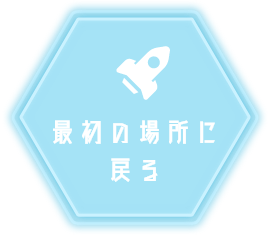
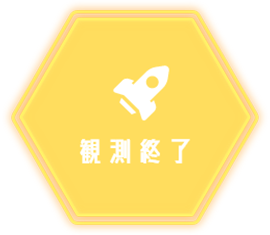
ver 0.8.4

diff --git a/src/js/ConstellationDetails.js b/src/js/ConstellationDetails.js
@@ -63,15 +63,29 @@ export default class ConstellationDetails {
 
     addBackButton(){
         let self = this;
-        this.backButton = new PIXI.Sprite(this.app.loader.resources['button_01'].texture);
-        this.backButton.interactive = true;
-        this.backButton.buttonMode = true;
-        this.backButton.position.set(25 , 25);
+        let poly = new PIXI.Polygon(
+            new PIXI.Point(-70 , -115),
+            new PIXI.Point(-130 , 0),
+            new PIXI.Point(-70 , 115),
+            new PIXI.Point(70 , 115),
+            new PIXI.Point(130 , 0),
+            new PIXI.Point(70 , -115)
+        );
 
-        this.backButton.on('pointerdown', function(){
-            self.onBackButton()
+        this.buttonBack = new PIXI.Sprite(this.app.loader.resources['button_back_off'].texture);
+        this.buttonBack.anchor.set(0.5);
+        this.buttonBack.position.set(200 , document.documentElement.clientHeight - 200);
+        this.buttonBack.hitArea = poly;
+        this.buttonBack.interactive = true;
+        this.buttonBack.buttonMode = true;
+        this.buttonBack.on('pointerover', function(){
+            this.texture = self.app.loader.resources['button_back_on'].texture
+        }).on('pointerout', function(){
+            this.texture = self.app.loader.resources['button_back_off'].texture
+        }).on('pointerdown', function(){
+            self.onBackButton();
         });
-        this.messageBox.addChild(this.backButton);
+        this.messageBox.addChild(this.buttonBack);
     }
 
     addInfoButton(){
@@ -109,9 +123,10 @@ export default class ConstellationDetails {
         this.flameBottom.y = document.documentElement.clientHeight;
         this.line_horizontal = new PIXI.Graphics().lineStyle(1, 0xFFFFFF, 0.5).moveTo(0 , document.documentElement.clientHeight / 2).lineTo(document.documentElement.clientWidth , document.documentElement.clientHeight / 2);
         this.line_vertical = new PIXI.Graphics().lineStyle(1, 0xFFFFFF, 0.5).moveTo(document.documentElement.clientWidth / 2 , 0).lineTo(document.documentElement.clientWidth / 2 , document.documentElement.clientHeight);
-
+        this.title = new PIXI.Sprite(this.app.loader.resources['title_constellation'].texture);
+        this.title.scale.set(0.8);
         this.buttonLeft = new PIXI.Sprite(this.app.loader.resources['flame_bottom'].texture);
-        this.flameBox.addChild(this.line_horizontal ,this.line_vertical , this.flameLeft , this.flameRight , this.flameBottom );
+        this.flameBox.addChild(this.line_horizontal ,this.line_vertical , this.flameLeft , this.flameRight , this.flameBottom , this.title);
     }
 
     createConstellationBackground(){
@@ -276,7 +291,7 @@ export default class ConstellationDetails {
     showInfo(){
         this.infoState = !this.infoState;
         this.infoButton.visible = false;
-        this.backButton.visible = false;
+        this.buttonBack.visible = false;
         this.constellationTextBox.visible = true;
         this.constellationText.visible = true;
         this.closeButton.visible = true;
@@ -287,7 +302,7 @@ export default class ConstellationDetails {
     hideInfo(){
         this.infoState = !this.infoState;
         this.infoButton.visible = true;
-        this.backButton.visible = true;
+        this.buttonBack.visible = true;
         this.constellationTextBox.visible = false;
         this.constellationText.visible = false;
         this.closeButton.visible = false;
@@ -300,7 +315,7 @@ export default class ConstellationDetails {
         if(this.infoState == false && this.studentState == false){
             this.studentState = true;
             this.studentName.text = name;
-            this.backButton.visible = false;
+            this.buttonBack.visible = false;
             this.infoButton.visible = false;
             for(let i in this.name){
                 this.name[i].visible = false;
@@ -319,7 +334,7 @@ export default class ConstellationDetails {
     hideStudent(){
         if(this.infoState == false && this.studentState == true){
             this.studentName.text = '';
-            this.backButton.visible = true;
+            this.buttonBack.visible = true;
             this.infoButton.visible = true;
             for(let i in this.name){
                 this.name[i].visible = true;
@@ -381,6 +396,7 @@ export default class ConstellationDetails {
 
     enter(){
         this.buttonObservation.texture = this.app.loader.resources['button_observation_off'].texture;
+        this.buttonBack.texture = this.app.loader.resources['button_back_off'].texture;
         this.removeChildren();
         this.createConstellationBackground();
         this.createConstellation();

diff --git a/src/js/Star.js b/src/js/Star.js
@@ -11,7 +11,7 @@ export default class Star {
         this.messageBox = new PIXI.Container();
 
         this.studentId = "";
-        this.beforeId = "";
+        this.beforeId = [];
 
         this.showStarText = "";
         this.showStar = {};
@@ -185,7 +185,8 @@ export default class Star {
         this.flameBottom.y = document.documentElement.clientHeight;
         this.line_horizontal = new PIXI.Graphics().lineStyle(1, 0xFFFFFF, 0.5).moveTo(0 , document.documentElement.clientHeight / 2).lineTo(document.documentElement.clientWidth , document.documentElement.clientHeight / 2);
         this.line_vertical = new PIXI.Graphics().lineStyle(1, 0xFFFFFF, 0.5).moveTo(document.documentElement.clientWidth / 2 , 0).lineTo(document.documentElement.clientWidth / 2 , document.documentElement.clientHeight);
-
+        this.title = new PIXI.Sprite(this.app.loader.resources['title_star'].texture);
+        this.title.scale.set(0.8);
         this.target = [
             new PIXI.Sprite(this.app.loader.resources['target'].texture),
             new PIXI.Sprite(this.app.loader.resources['target'].texture),
@@ -209,7 +210,7 @@ export default class Star {
 
         this.target[3].alpha = 0.2;
 
-        this.flameBox.addChild(this.line_horizontal ,this.line_vertical , this.flameLeft , this.flameRight , this.flameBottom , this.target[0] , this.target[1] , this.target[2] , this.target[3]);
+        this.flameBox.addChild(this.line_horizontal ,this.line_vertical , this.flameLeft , this.flameRight , this.flameBottom , this.target[0] , this.target[1] , this.target[2] , this.target[3] , this.title);
     }
 
     createButton(){

diff --git a/src/js/FILE_PATH.js b/src/js/FILE_PATH.js
@@ -62,9 +62,11 @@ const FILE_PATH = {
         {"name" : "text_presentation_left" , "url" : require("@/assets/text_presentation_left.png")},
         {"name" : "text_presentation_right" , "url" : require("@/assets/text_presentation_right.png")},
 
+        {"name" : "title_constellation" , "url" : require("@/assets/title_constellation.png")},
         {"name" : "title_info" , "url" : require("@/assets/title_info.png")},
         {"name" : "title_link" , "url" : require("@/assets/title_link.png")},
         {"name" : "title_recommend" , "url" : require("@/assets/title_recommend.png")},
+        {"name" : "title_star" , "url" : require("@/assets/title_star.png")}
     ]
 }
 
